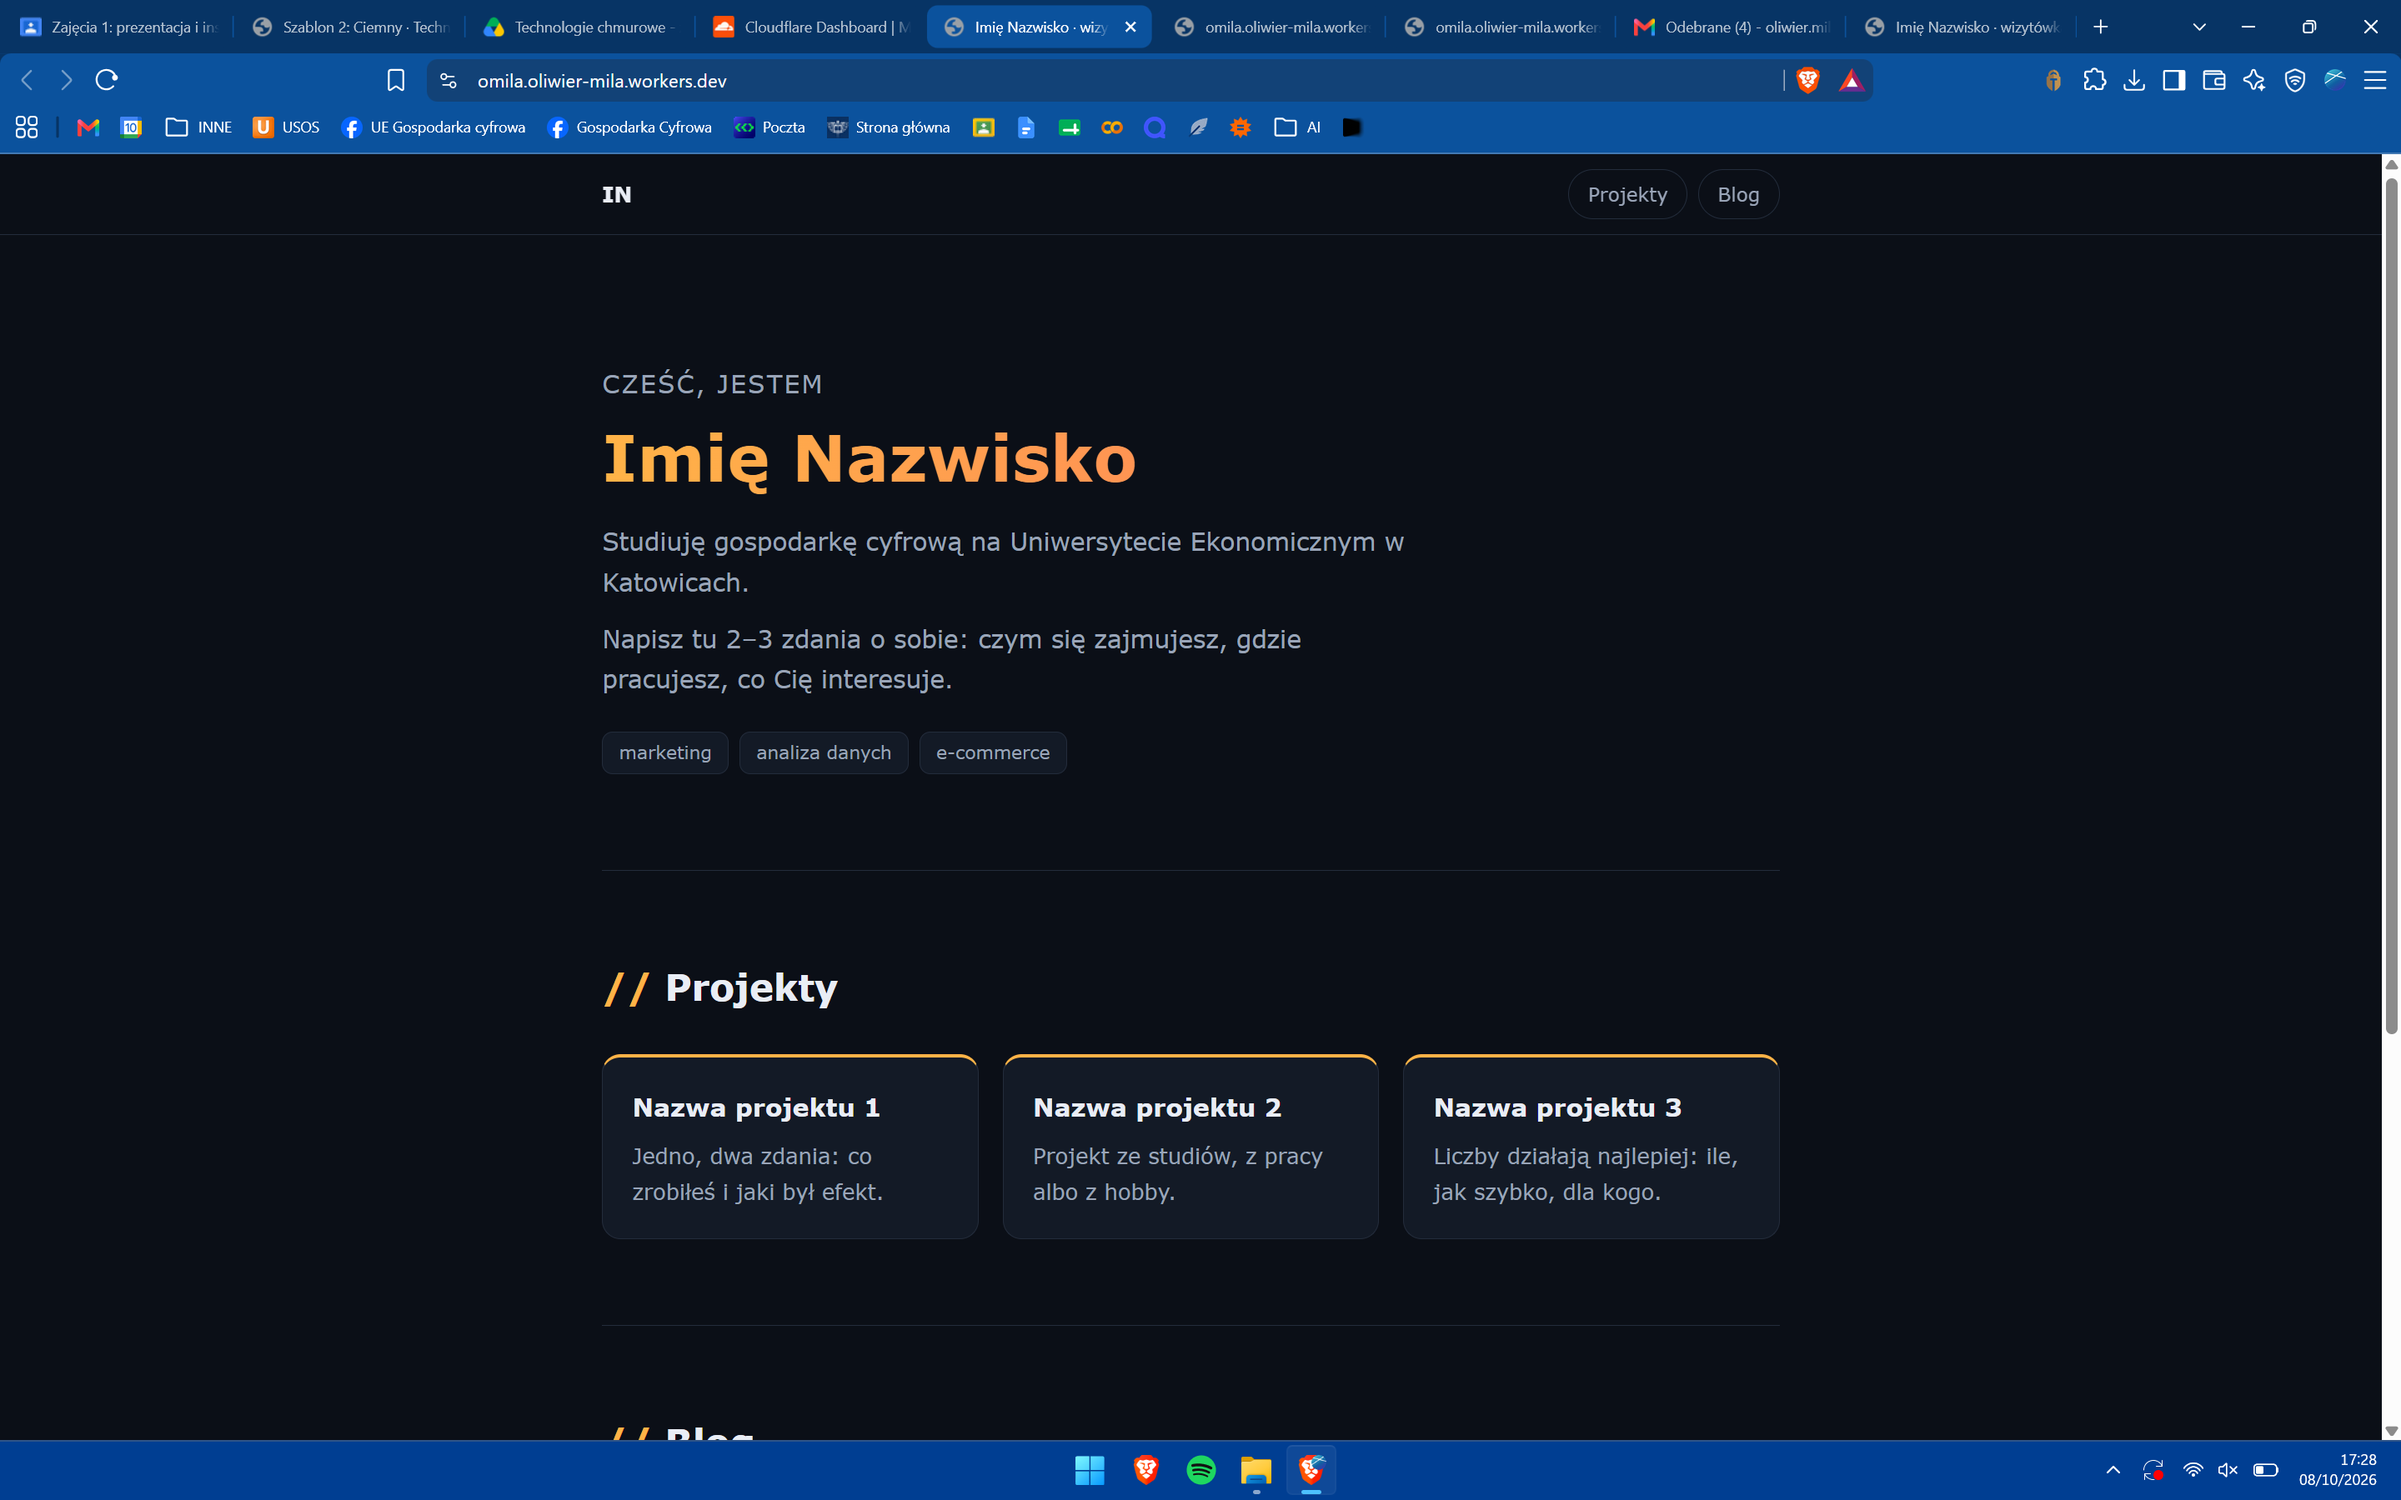
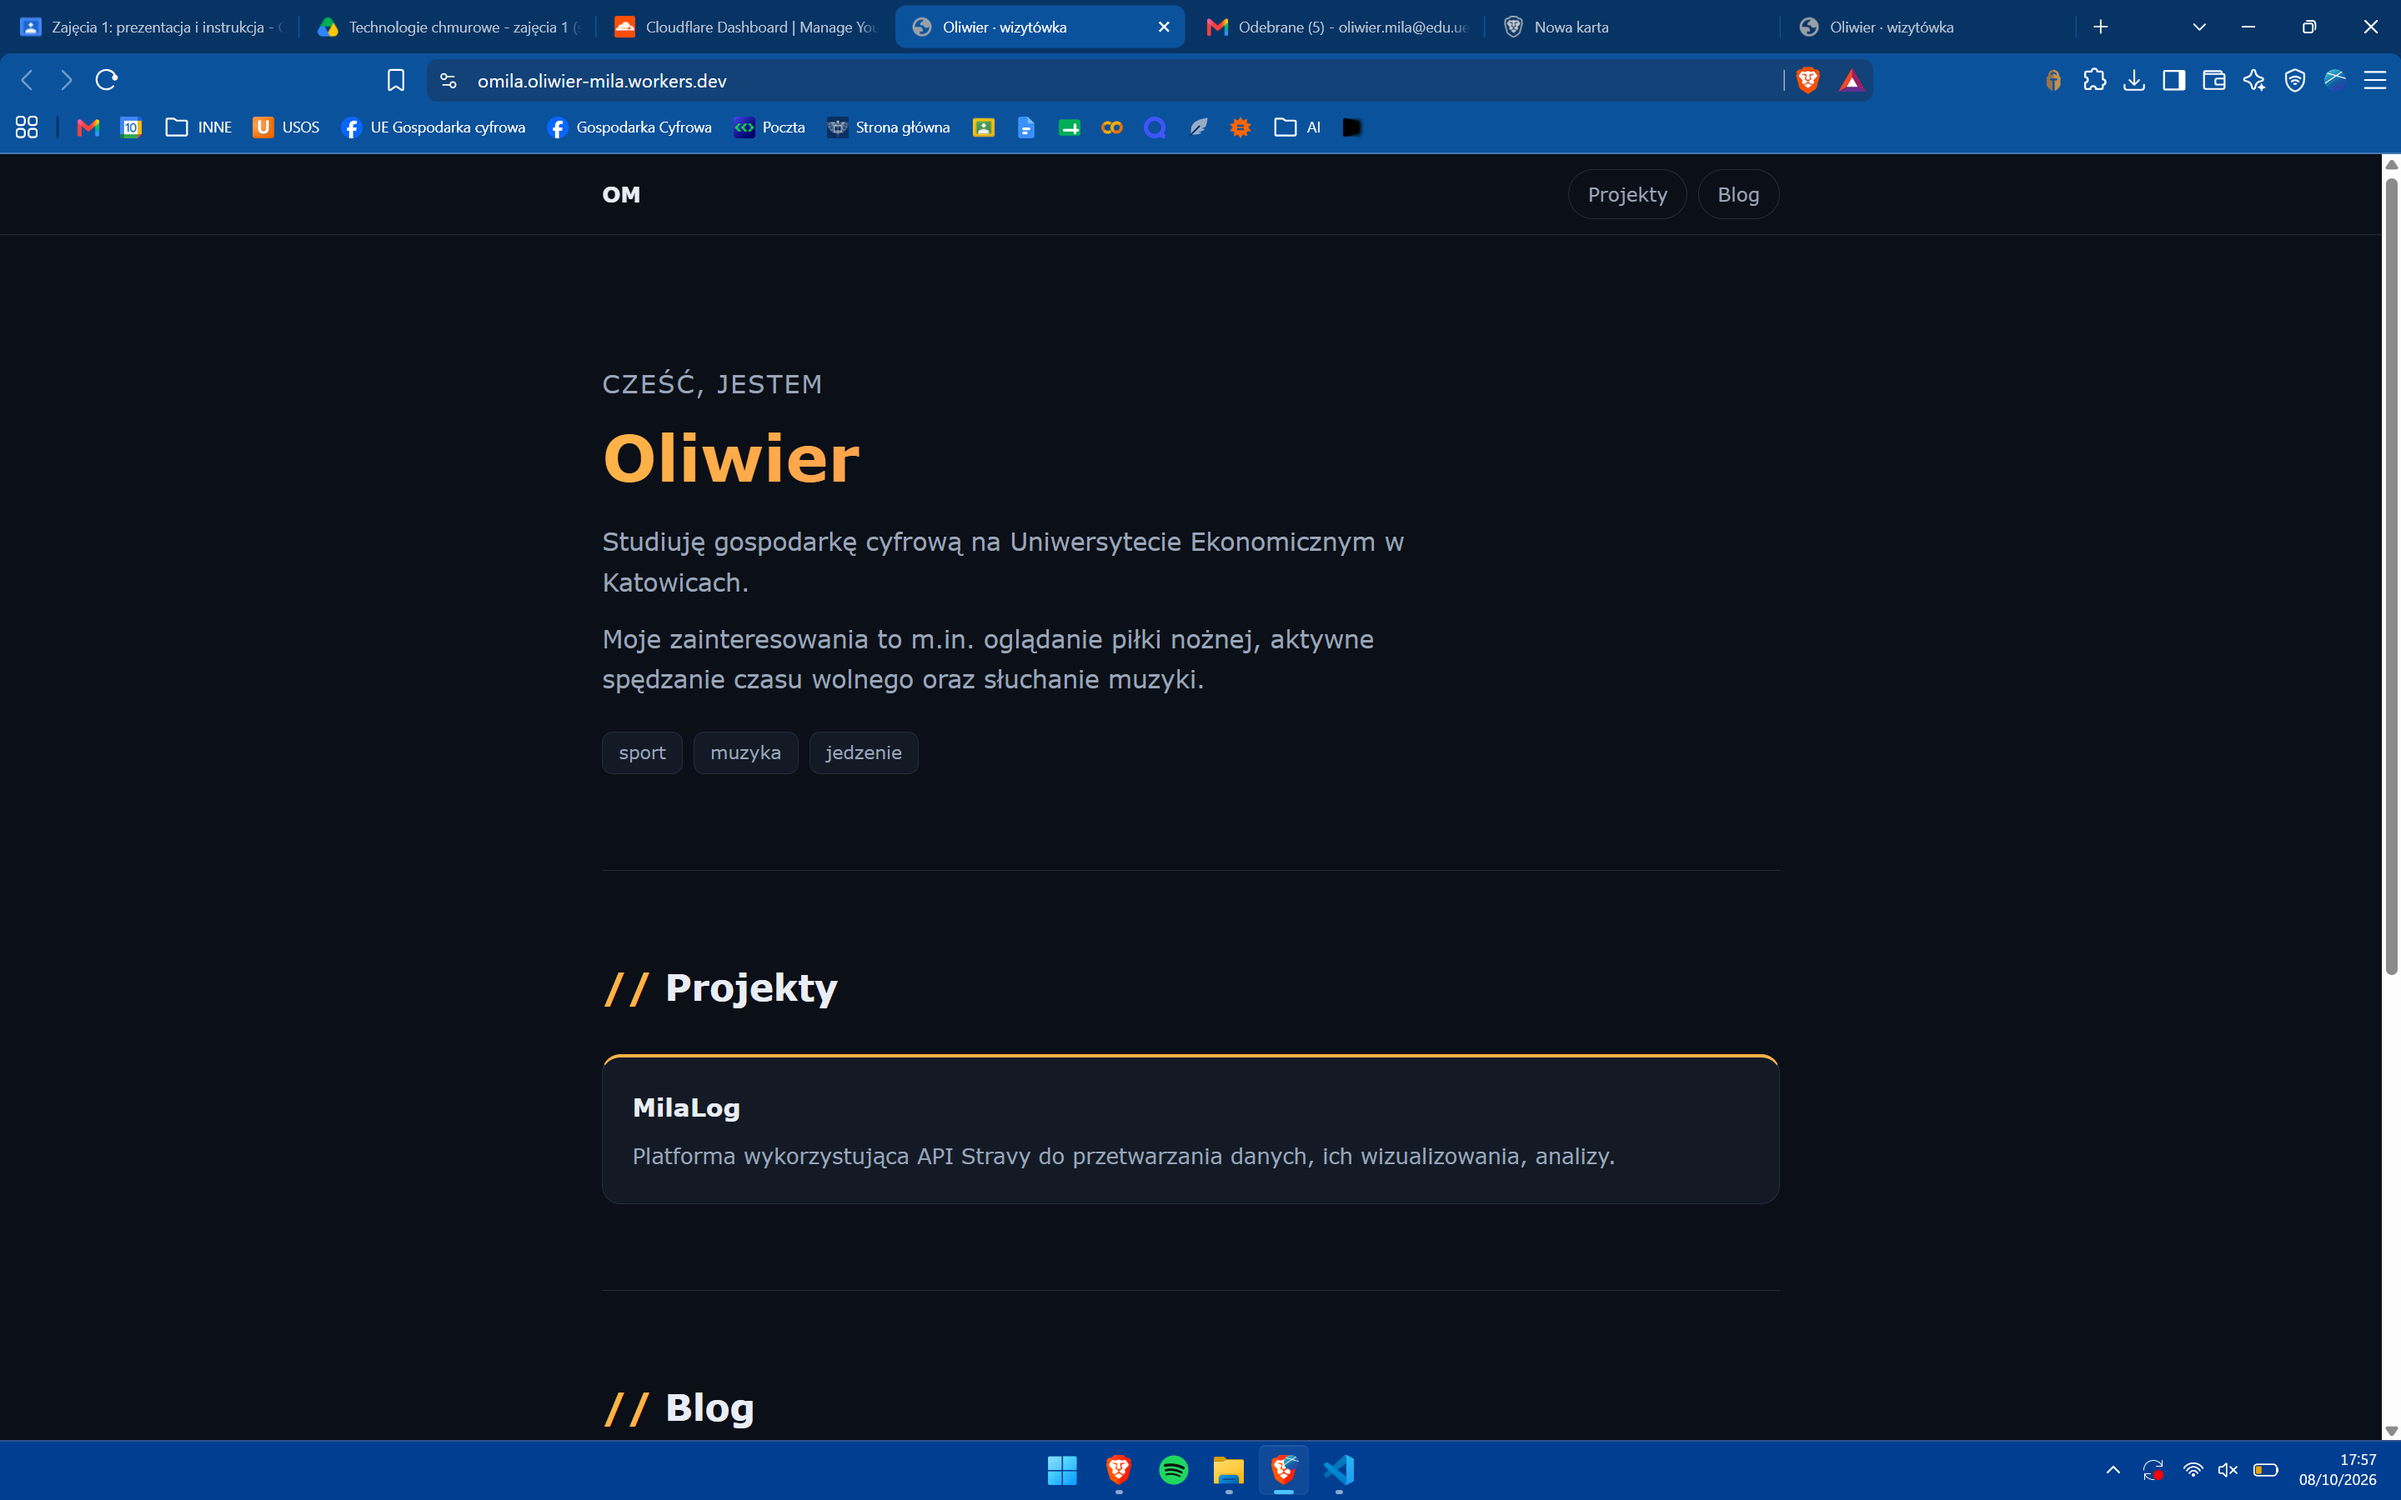
Add files via upload

diff --git a/index.html b/index.html
@@ -147,7 +147,7 @@
       {
         data: "2026-10-08",
         tytul: "Zajęcia 1: wizytówka w chmurze",
-        tresc: "Co zrobiłem: utworzyłem konta w serwisach Cloudflare, Azure, Vercel. Aktywowałem subskrybcje Azure na koncie Microsoft. Stronę wrzuciłem również na Vercel gdzie po połączeniu z GitHubem można dość sprawnie aktualizować stronę. Większych różnic nie zauważyłem. \n\nIle to trwało: od założenia konta do publikacji strony minęło 15 minut.\n\nCo nie zadziałało: wgranie pliku HTML, odświeżyłem stronę i wgrałem jeszcze raz. \n\nLink do strony Vercel: https://olipage.vercel.app/\n\nLink do strony CloudFlare: https://omila.oliwier-mila.workers.dev/",
+        tresc: "Co zrobiłem: utworzyłem konta w serwisach Cloudflare, Azure, Vercel. Aktywowałem subskrybcje Azure na koncie Microsoft. Stronę wrzuciłem również na Vercel gdzie po połączeniu z GitHubem można dość sprawnie aktualizować stronę. Większych różnic pomiędzy Cloudflare nie zauważyłem. \n\nIle to trwało: od założenia konta do publikacji strony minęło 30 minut.\n\nCo nie zadziałało: wgranie pliku HTML, odświeżyłem stronę i wgrałem jeszcze raz. \n\nLink do strony Vercel: https://olipage.vercel.app/\n\nLink do strony CloudFlare: https://omila.oliwier-mila.workers.dev/",
         obraz: "zajecia1.png"
       }
     ];
